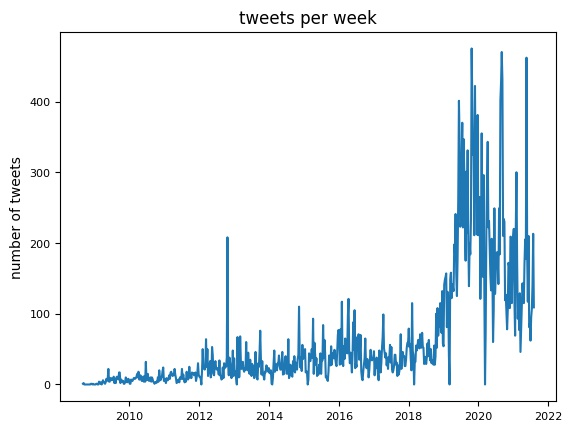
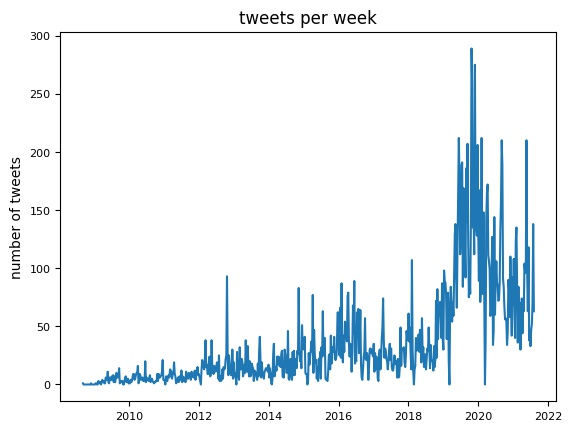
lots of final adjustments

diff --git a/test.py b/test.py
@@ -1,21 +1,79 @@
-import pandas as pd 
+"""
+Script for reading csv files made by lese_txt.py. The order of csv collumns is very ridgid.
+"""
+import re
+import json
+import csv
+import matplotlib.pyplot as plt
+import datetime
+import pandas as pd
 import numpy as np
 
-data = pd.read_csv('anotized_combined_200.csv', usecols =['text', 'label', 'labels']) 
+test_hist = pd.read_csv('final_dataset.csv', parse_dates=True)
 
-label = np.zeros(len(data)) 
+#reading, parsing and sorting time elements from twitter data
+tiems = test_hist['created_at']
+tiems= pd.to_datetime(tiems, errors='coerce', format = "%Y-%m-%dT%H:%M:%S.%fZ")
+tiems_sorted = tiems.sort_values()
 
-outdata = pd.DataFrame()
 
-for i, row in data.iterrows():
-    if isinstance(row['label'], float):
-        label[i] = row['label'] 
-    elif isinstance( row['labels'], float):
-        label[i] = row['labels'] 
 
-outdata['text'] = data['text'] 
-outdata['labels'] = label 
+week_nums = pd.date_range(tiems_sorted.iloc[0], tiems_sorted.iloc[-1], freq='W-MON')
+year_nums = np.arange(tiems_sorted.iloc[0].year, tiems_sorted.iloc[-1].year +1)
+print(week_nums)
 
-outdata = outdata.astype({'labels':'int'})
+print(tiems_sorted.iloc[-1])
+print(tiems_sorted.iloc[0].week)
 
-outdata.to_csv('anotized_200_x.csv', index=False)
+        
+year_indx_dict = {} 
+for i, elem in enumerate(year_nums): #make a dictionary containing year and corresponding index 
+    year_indx_dict[elem] = i
+
+start_year = tiems_sorted.iloc[0].year
+end_year = tiems_sorted.iloc[-1].year
+
+occurences = np.zeros((len(year_indx_dict), 53))
+print(np.shape(occurences))
+
+#TODO:  Check week num and year in week_nums array and elem to find matching index. 
+for i, elem in enumerate(tiems_sorted):
+    """
+    NOTE: datetime.date(elem.year,29,12).isocalendar()[1]) is to exctract the total number of weeks in a given year. 
+    this is because 2020 had 53 weeks and this fucked my code
+    """
+    #print(int(elem.week + (year_indx_dict[elem.year]*datetime.date(elem.year,12,29).isocalendar()[1]) -1))
+    
+    #bool_list = week_nums.isin(np.array([date]).astype('datetime64[ns]'))
+    #print(bool_list)
+    
+    #print(datetime.date(elem.year,12,29).isocalendar()[1])
+    #doy = elem.day_of_year
+    #dow = elem.day_of_week
+    #woy = ((10 + doy - dow) //7) -1 #https://en.wikipedia.org/wiki/ISO_week_date#Differences_to_other_calendars
+    
+    print(elem.week) 
+    occurences[year_indx_dict[elem.year], elem.week-1] += 1 
+    #occurences[int(woy + (year_indx_dict[elem.year]*datetime.date(elem.year,12,29).isocalendar()[1]) )]  += 1 
+            #the number of year times 52 ensures indexing goes beyond 52 for the subsequent years
+            # calculating woy is due to ISO calendar not ending the year at first of january
+
+flat = occurences.flatten()
+
+fig, ax = plt.subplots()
+first_tweet_week = tiems_sorted.iloc[0].week -1 #-1 for index
+flat = flat[first_tweet_week:]
+print(flat)
+
+for label in (ax.get_xticklabels() + ax.get_yticklabels()):
+    label.set_fontsize(8)
+
+ax.plot(week_nums, flat)
+plt.ylabel('number of tweets')
+plt.title('tweets per week')
+
+plt.savefig('tweets_per_week_2006_and_up.jpg', bbox_inches = 'tight', pad_inches = 0.1) #0.1 is default when bbox is tight
+
+
+
+

diff --git a/plot_sentiment.py b/plot_sentiment.py
@@ -42,6 +42,12 @@ for i, row in data.iterrows():
 data.drop(data.index[delete_rows]) # delete rows with nan indexes
 data['labels'] = bool_label
 
+data.to_csv('final_dataset_bolllabel.csv', index = False) 
+
+print(np.sum(bool_label)) 
+print(len(bool_label))
+
+
 def plot_uncertainty_diff():
     plt.hist(label_diff)
     plt.legend()
@@ -67,9 +73,11 @@ def norway_plot():
 
     #dispersion = np.random.normal( scale = 10 ,size = (len(gdf['labels']), len(gdf['labels'])))
     for i,row in gdf.iterrows():
-        row['latitude'] += np.random.normal(scale=10, size = (2)) 
-        row['longitude'] += np.random.normal(scale=100, size = (2))
-
+        print(row['latitude'])
+        print('add')
+        row['latitude'] += np.random.normal(scale=100) 
+        row['longitude'] += np.random.normal(scale=100)
+        print(row['latitude'])
 
     gdf[gdf['labels'] == 0].plot(ax = ax, markersize = 20, color = 'red', marker = 'o', label = 'neg')
     #print(gdf.iloc[bool_label])
@@ -78,6 +86,12 @@ def norway_plot():
     plt.title('distribution of positive and negative sentiment across the country')
     plt.savefig('fig/geo_distribution.png')
 
+
+def district_bar_plot():
+
+    print(data.head())
+
 if __name__ == '__main__':
     #plot_uncertainty_diff()
-    norway_plot()
+    #norway_plot()
+    pass

diff --git a/reading_csv.py b/reading_csv.py
@@ -9,8 +9,9 @@ import datetime
 import pandas as pd
 import numpy as np
 
-test_hist = pd.read_csv('all_data_all_time_edited.csv', parse_dates=True)
+test_hist = pd.read_csv('final_dataset_boollabel.csv', parse_dates=True)
 
+test_hist = test_hist[test_hist['labels'] == 1] 
 #reading, parsing and sorting time elements from twitter data
 tiems = test_hist['created_at']
 tiems= pd.to_datetime(tiems, errors='coerce', format = "%Y-%m-%dT%H:%M:%S.%fZ")
@@ -87,11 +88,12 @@ print(flat[154])
 print(flat)
 
 
-ax.plot(week_nums, flat)
+ax.plot(week_nums, flat[:len(week_nums)])
 plt.ylabel('number of tweets')
 plt.title('tweets per week')
 
-plt.savefig('tweets_per_week_2006_and_up.jpg', bbox_inches = 'tight', pad_inches = 0.1) #0.1 is default when bbox is tight
+plt.savefig('fig/tweet_per_week_no_sentiment.jpg', bbox_inches = 'tight', pad_inches = 0.1) #0.1 is default when bbox is tight
+
 
 
 
